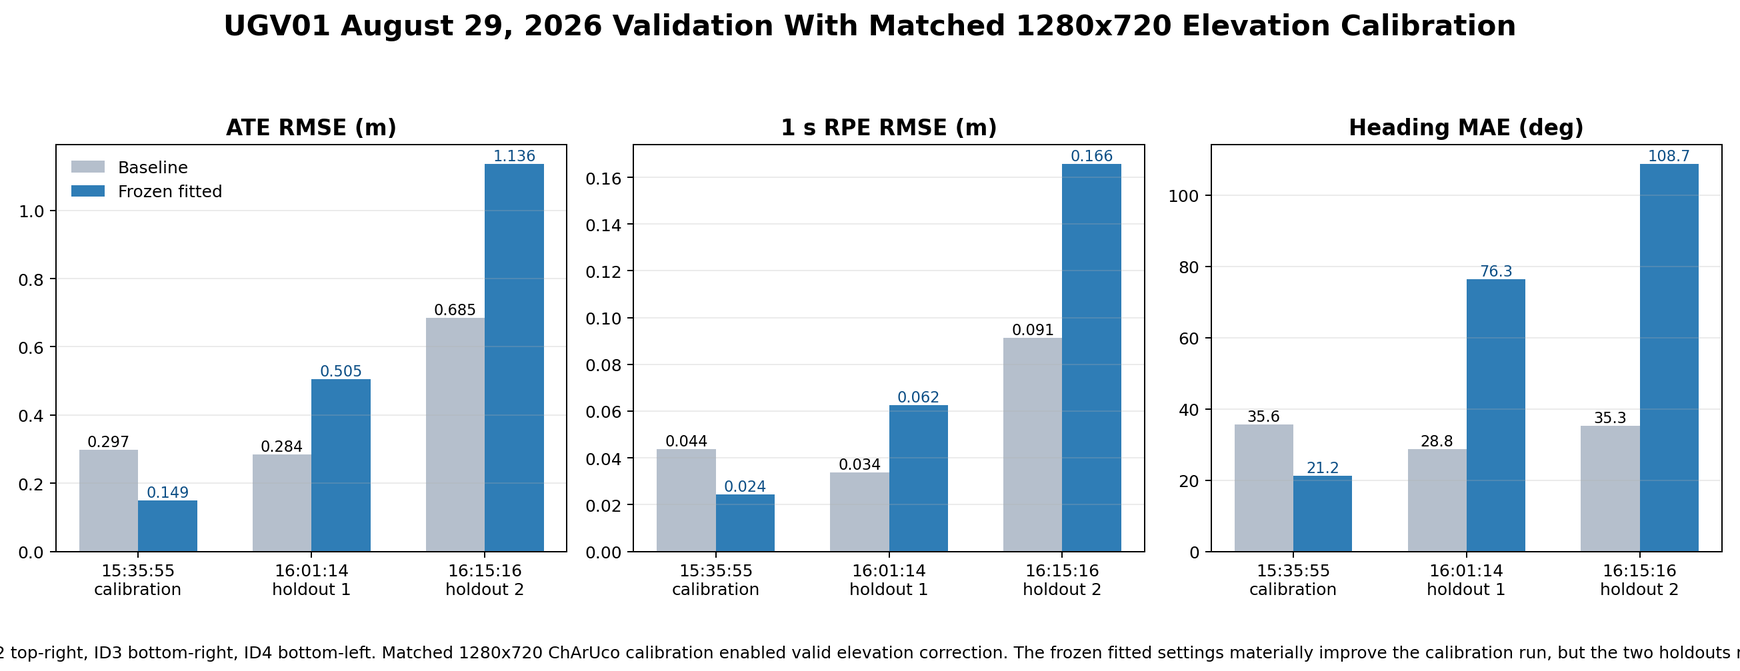
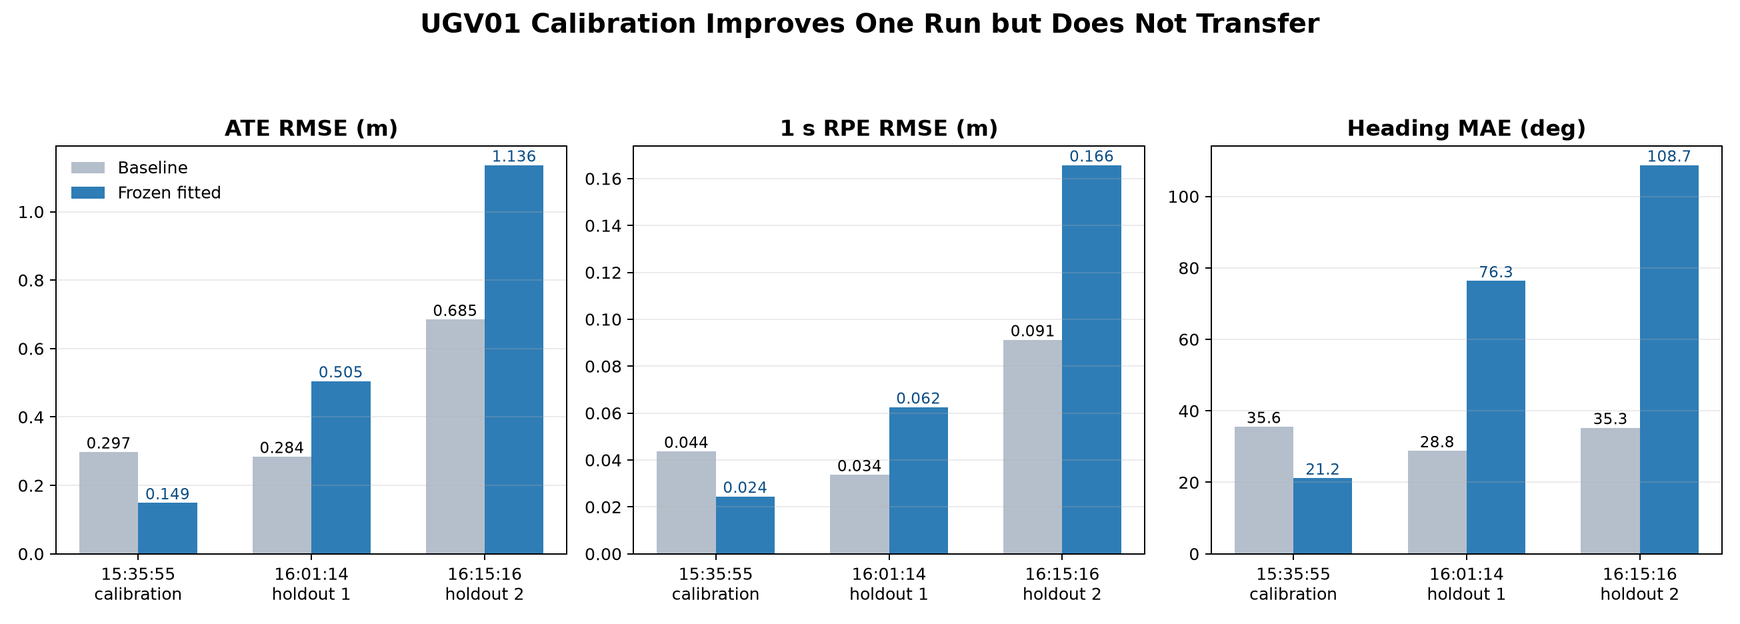
Polish IoTJ manuscript and figure package

diff --git a/manuscript/main.tex b/manuscript/main.tex
@@ -27,7 +27,7 @@
 \maketitle
 
 \begin{abstract}
-Digital-twin (DT) fidelity is often reported as a model-centric score even though an IoT service consumes specific physical quantities over specific horizons, with explicit error and freshness requirements. This paper formulates \emph{service-relative operational fidelity} as an engineering contract over required quantities, service horizon, tolerated discrepancy, operating context, and information age. We connect window validity to run-level contract satisfaction and distinguish deployment qualification from grid-based sensitivity analysis. On frozen i2Nav trajectories, local and synchronized-global service rankings reverse across prespecified tolerance surfaces, while ATE and finite-horizon RPE align most strongly with the services matching their semantics. The same contract construction remains usable on TerraSentia and, through one frozen normalized specialization, on thermal, battery electro-thermal, and biomass-to-SNG DT data. Controlled synchronization replay shows that 50-ms timestamp jitter increases 1-s RPE by 66.2\% while changing ATE by only 0.085\%. AprilTag-referenced UGV01 runs provide physical-asset evidence, including an adverse frozen-parameter cross-run transfer result. In a separate 20-run online UGV01 study, four resource policies produce distinct requested rates but only 1.45--1.52 delivered updates/s because the serial HTTP path is the bottleneck. Measured traces and trace-driven replay thus demonstrate online contract execution and a null delivered-resource effect, not communication savings. The contribution is a mapping from application requirements to measurable fidelity evidence, explicit service decisions, and their observable edge-system limits.
+Digital-twin (DT) fidelity is commonly reported as a model-centric score, although an IoT service consumes particular physical quantities over a particular horizon and under explicit error and freshness limits. We formulate \emph{service-relative operational fidelity} as a contract over required quantities, horizon, tolerated discrepancy, operating context, and information age. On frozen i2Nav trajectories, local and synchronized-global service rankings reverse over prespecified tolerance surfaces; ATE and finite-horizon RPE align most strongly with services that match their respective semantics. The same contract representation remains usable on TerraSentia and, through a frozen normalized specialization, on thermal, battery electro-thermal, and biomass-to-SNG DT data. Controlled replay further shows that 50-ms timestamp jitter increases 1-s RPE by 66.2\% while changing ATE by only 0.085\%. AprilTag-referenced UGV01 experiments demonstrate both the benefit and the cross-run limit of asset-specific calibration. Finally, a 20-run online study shows that four policies request different telemetry rates, yet a serial HTTP bottleneck collapses delivery to 1.45--1.52 updates/s. The experiments therefore demonstrate contract execution and expose its physical, observational, and transport boundaries; they do not claim communication savings. The contribution is an auditable mapping from application requirements to measurable fidelity evidence and explicit service decisions.
 \end{abstract}
 
 \begin{IEEEkeywords}
@@ -56,7 +56,7 @@ This paper is organized around four research questions:
     \item \textbf{RQ1:} Can the same physical--virtual pair receive different fidelity judgments when the service changes?
     \item \textbf{RQ2:} Does an explicit service contract add decision-relevant information beyond a single scalar score or ordinary multi-metric reporting?
     \item \textbf{RQ3:} Does the contract structure remain usable across another robot platform and across non-robot DT domains without outcome-tuned thresholds?
-    \item \textbf{RQ4:} Does physical--virtual timing perturbation affect service horizons differently in a way that matters to edge/IoT deployment?
+    \item \textbf{RQ4:} How do synchronization, reference observability, and transport capacity constrain service-relative fidelity decisions at the edge?
 \end{itemize}
 
 The paper makes four main contributions:
@@ -64,7 +64,7 @@ The paper makes four main contributions:
     \item \textbf{Operational fidelity contract and lifecycle.} We formalize a service contract over quantity set, horizon, tolerance, context, and information age, and define how it is specified, qualified, monitored, and handled when violated.
     \item \textbf{Decision-value evidence beyond metric reporting.} A frozen i2Nav study shows threshold-robust local/global ordering reversals, service-specific metric alignment, and sequence-level robustness. The contract therefore makes conventional metrics actionable rather than claiming that they are invalid.
     \item \textbf{Cross-platform and cross-domain structural portability.} The same robot contract transfers unchanged to TerraSentia, and one frozen normalized quantity--horizon--tolerance protocol remains non-degenerate on MAGNET, FreeTwinEV, and TU Wien SNG.
-    \item \textbf{Synchronization and physical-asset evidence.} Controlled Gaussian timestamp jitter and fixed update-delay replay show that local services can deteriorate before global ATE reveals a large change. AprilTag-referenced UGV01 runs reveal asset-specific calibration gains and cross-run limits; 20 additional live runs demonstrate online contract and policy execution under a measured transport bottleneck.
+    \item \textbf{Edge and physical-asset evidence.} Controlled timing replay shows horizon-specific degradation. AprilTag-referenced UGV01 runs reveal asset-specific calibration gains and cross-run limits, while 20 live runs demonstrate online contract and policy execution under a measured transport bottleneck.
 \end{enumerate}
 
 The claim boundary is deliberate. We do not claim a universal fidelity threshold, a universal DT certificate, localization state of the art, successful zero-shot transfer of one learned maintenance model across assets, or measured communication savings. The paper evaluates the \emph{operational contract representation and the service decisions it induces}; its live experiment identifies why requested resource modes did not translate into different delivered update rates.
@@ -478,61 +478,31 @@ The frozen V2 checkpoint is small (approximately 0.16~MiB serialized), and its s
 \section{UGV01 Asset-Specific Physical Validation}
 \label{sec:ugv01-physical-validation}
 
-To complement the broad cross-sequence fidelity analysis on i2Nav, we evaluated
-the instantiated twin on a real UGV01 tracked rover using overhead
-AprilTag-referenced video and matched onboard telemetry collected on August 29,
-2026. The physical reference used four fixed world tags and a rover-mounted tag
-in a corrected $2.0\,\mathrm{m}\times1.5\,\mathrm{m}$ layout with tag ordering
-$1=\mathrm{top\text{-}left}$, $2=\mathrm{top\text{-}right}$,
-$3=\mathrm{bottom\text{-}right}$, and $4=\mathrm{bottom\text{-}left}$. A
-matched $1280\times720$ ChArUco calibration was used to support
-elevation-corrected reference recovery, so the resulting analysis measures
-planar physical--virtual fidelity in a common local frame rather than
-post-aligned trajectory agreement.
+We evaluated the instantiated twin on a UGV01 tracked rover using matched
+telemetry and overhead AprilTag video collected on August 29, 2026. Four fixed
+world tags defined a corrected $2.0\,\mathrm{m}\times1.5\,\mathrm{m}$ reference
+rectangle, and a rover-mounted tag provided planar pose. A matched
+$1280\times720$ ChArUco calibration supported elevation correction. The
+evaluation therefore compares physical and virtual trajectories in one local
+frame without trajectory post-alignment.
 
-We first evaluated a baseline deterministic UGV01 twin and then fit an
-asset-specific parameterization on the run
-\texttt{WIN\_20260829\_15\_35\_55\_Pro}. The fitted configuration used an
-effective track width of $0.192\,\mathrm{m}$ together with the current
-low-speed gyro-fusion setting of $0.20$. This fitted instantiation was then
-held fixed and assessed against two additional runs from the same day to test
-cross-run transfer without retuning.
+We compared a corrected deterministic baseline with an asset-specific
+parameterization fitted on \texttt{WIN\_20260829\_15\_35\_55\_Pro}. The fitted
+configuration used a 0.192-m effective track width and a 0.20 low-speed gyro
+fusion weight. Both parameters were then frozen for two same-day holdout runs.
 
-On the calibration/reference run, asset-specific fitting materially improved
-physical--virtual fidelity over the full $164.7\,\mathrm{s}$ evaluated
-trajectory. The baseline configuration achieved $0.297\,\mathrm{m}$ ATE RMSE,
-$0.044\,\mathrm{m}$ RPE$_{1\mathrm{s}}$ RMSE, and $35.6^\circ$ heading MAE,
-whereas the fitted twin achieved $0.149\,\mathrm{m}$ ATE RMSE,
-$0.024\,\mathrm{m}$ RPE$_{1\mathrm{s}}$ RMSE, and $21.2^\circ$ heading MAE. The
-fitted run also achieved a median position error of $0.099\,\mathrm{m}$, a
-position-error p95 of $0.295\,\mathrm{m}$, and remained within
-$0.25\,\mathrm{m}$ for $87.3\%$ of evaluated samples. This confirms that
-binding the generic template to the specific UGV01 geometry and turning
-behavior can substantially improve local physical--virtual agreement on the
-target asset.
+On the 164.7-s calibration trajectory, fitting reduces ATE by 49.8\%, 1-s RPE
+by 45.5\%, and heading MAE by 40.4\% (Table~\ref{tab:ugv01_aug29_results}). The
+fitted position-error median and p95 are 0.099 and 0.295~m, respectively, and
+87.3\% of samples are within 0.25~m. Thus, deterministic asset information can
+materially improve the instantiated twin on its calibration condition.
 
-We then tested whether that fitted instantiation transferred to two additional
-August 29 runs. On \texttt{WIN\_20260829\_16\_01\_14\_Pro}, the corrected
-baseline twin achieved $0.284\,\mathrm{m}$ ATE RMSE,
-$0.034\,\mathrm{m}$ RPE$_{1\mathrm{s}}$ RMSE, and $28.8^\circ$ heading MAE,
-while the frozen fitted twin degraded to $0.505\,\mathrm{m}$ ATE RMSE,
-$0.062\,\mathrm{m}$ RPE$_{1\mathrm{s}}$ RMSE, and $76.3^\circ$ heading MAE. On
-\texttt{WIN\_20260829\_16\_15\_16\_Pro}, the corrected baseline twin achieved
-$0.685\,\mathrm{m}$ ATE RMSE, $0.091\,\mathrm{m}$ RPE$_{1\mathrm{s}}$ RMSE, and
-$35.3^\circ$ heading MAE, whereas the frozen fitted twin degraded further to
-$1.136\,\mathrm{m}$ ATE RMSE, $0.166\,\mathrm{m}$ RPE$_{1\mathrm{s}}$ RMSE, and
-$108.7^\circ$ heading MAE. Thus, the fitted instantiation improves the
-calibration run strongly but does not yet generalize robustly across repeated
-holdout trials, particularly for heading-sensitive behavior.
-
-This outcome is scientifically important rather than merely negative. It shows
-that asset-specific instantiation is real and beneficial, but also that twin
-fidelity remains condition- and run-sensitive even on the same physical robot.
-In the best case, the UGV01 twin attains strong positional and short-horizon
-agreement; however, heading fidelity remains weaker and transfers less
-reliably. This directly supports the paper's central argument that digital-twin
-fidelity is multidimensional and service-relative rather than a single scalar
-notion of accuracy.
+The same parameters do not transfer favorably to either holdout: ATE, 1-s RPE,
+and heading MAE are all worse than the corrected baseline
+(Fig.~\ref{fig:ugv01_aug29_summary}). The strongest degradation is in heading,
+which reaches $108.7^\circ$ MAE on the second holdout. This contrast is central
+to the service-relative argument: successful in-run calibration is not evidence
+that every service remains qualified under a repeated physical run.
 
 \begin{table}[t]
 \centering
@@ -563,25 +533,6 @@ Run / configuration & ATE RMSE (m) & RPE 1\,s (m) & Heading MAE (deg) \\
     \label{fig:ugv01_aug29_summary}
 \end{figure}
 
-\begin{figure}[t]
-    \centering
-    \includegraphics[width=\linewidth]{figures/ugv01_aug29_trajectory_fidelity.png}
-    \caption{Physical versus virtual trajectory comparison for the August 29
-    calibration/reference run after asset-specific fitting. The fitted twin
-    follows the local route shape more closely than the baseline
-    configuration.}
-    \label{fig:ugv01_aug29_traj}
-\end{figure}
-
-\begin{figure}[t]
-    \centering
-    \includegraphics[width=\linewidth]{figures/ugv01_aug29_fidelity_diagnostics.png}
-    \caption{Detailed fidelity diagnostics for the August 29 calibration run.
-    Position and short-horizon fidelity improve clearly after asset-specific
-    fitting, while heading disagreement remains the weaker component.}
-    \label{fig:ugv01_aug29_diag}
-\end{figure}
-
 \paragraph{Reference and synchronization limitations.}
 The present UGV01 validation uses an elevation-corrected AprilTag plus ChArUco
 reference and motion-correlation alignment between video and telemetry. These
@@ -595,14 +546,7 @@ quality and frozen cross-run robustness.
 
 Applying the predeclared global contract (position error no greater than 1~m and heading error no greater than $5^{\circ}$) makes that limitation operational. Satisfaction is 0.207 on the fitted calibration run and falls to 0.027 and 0.030 on the two frozen fitted holdouts. The engine therefore withdraws the heading-sensitive service claim on most observable samples. This is evidence that the contract exposes an unqualified model; it is not evidence that an external deployment controller actually prevented use of that model.
 
-We also swept effective track width from 0.180 to 0.210~m in 0.005-m steps on all three recordings without selecting a separate width for either holdout. No tested width attains $S_s\ge0.8$ on any run, and the common feasible set is empty (Fig.~\ref{fig:widthsensitivity}). Track-width drift alone therefore does not explain or repair the transfer failure. We do not report a first-10-s recalibration result because track width is not identifiable from an arbitrary initial window without sufficient differential-turn excitation.
-
-\begin{figure}[t]
-\centering
-\safegraphic{figures/track_width_contract_sensitivity.png}
-\caption{Predeclared effective-track-width sensitivity on the August 29 UGV01 runs. The sweep does not select parameters independently on the holdouts. No tested width produces global-contract satisfaction of 0.8, so no allowable parameter-drift interval is claimed.}
-\label{fig:widthsensitivity}
-\end{figure}
+We also swept effective track width from 0.180 to 0.210~m in 0.005-m steps on all three recordings without selecting a separate width for either holdout. No tested width attains $S_s\ge0.8$ on any run, and the common feasible set is empty. Track-width drift alone therefore does not explain or repair the transfer failure. We do not report a first-10-s recalibration result because track width is not identifiable from an arbitrary initial window without sufficient differential-turn excitation.
 
 \section{Live UGV01 Contract and Resource-Policy Study}
 \label{sec:live-ugv01}
@@ -634,37 +578,28 @@ Contract-aware & 8.61 & 1.52 & 948.7 & 0.148 & 0.180 \\
 \subsection{Trace-Driven Counterfactual Transport Replay}
 We replayed five measured contract-aware UGV01 traces through each of the four frozen policies. Within a trial all policies see the same recorded source arrivals, response times, payload sizes, and contract-state inputs. The replay allows one outstanding HTTP request and returns the newest recorded source sample available when a request begins. It does not synthesize fresh measurements or recompute counterfactual contract validity. The physical trace, not each replayed timestamp, is the comparison unit.
 
-Under measured response times all four policies produce the same replayed 1.536 requests/s, 951.8 response B/s, 1.304-s p95 delivery age, and 5.3\% repeated-source fraction (Fig.~\ref{fig:livereplay}). This is a \emph{null delivered-resource effect}: different requested rates cannot overcome a shared serial-service bottleneck.
+Under measured response times all four policies produce the same replayed 1.536 requests/s, 951.8 response B/s, 1.304-s p95 delivery age, and 5.3\% repeated-source fraction (Fig.~\ref{fig:liveedge}). This is a \emph{null delivered-resource effect}: different requested rates cannot overcome a shared serial-service bottleneck.
 
-\begin{figure}[t]
+A separate capacity calculation caps the observed offered demand at 1.5, 2, 5, and 10 updates/s while using the measured mean 619.4-B response. At 1.5 updates/s all policies saturate. At a hypothetical 10-updates/s capacity, response-payload demand would be 80.0\%, 72.4\%, and 13.9\% lower than static-high for static-low, AoI-only, and contract-aware, respectively. These are provisioned-capacity bounds, \emph{not} measured bandwidth or energy savings; they do not estimate contract satisfaction at those rates.
+
+\begin{figure*}[t]
 \centering
+\begin{minipage}{0.49\textwidth}\centering
 \safegraphic{figures/trace_replay_policy_comparison.png}
-\caption{Trace-driven replay of all four frozen policies using measured UGV01 source arrivals, response times, and payload sizes. Delivered transport metrics coincide under the serial HTTP bottleneck. These are simulated counterfactual transport quantities, not new physical trials or evidence of service preservation.}
-\label{fig:livereplay}
-\end{figure}
-
-A separate capacity calculation caps the observed offered demand at 1.5, 2, 5, and 10 updates/s while using the measured mean 619.4-B response (Fig.~\ref{fig:capacity}). At 1.5 updates/s all policies saturate. At a hypothetical 10-updates/s capacity, response-payload demand would be 80.0\%, 72.4\%, and 13.9\% lower than static-high for static-low, AoI-only, and contract-aware, respectively. These are provisioned-capacity bounds, \emph{not} measured bandwidth or energy savings; they do not estimate contract satisfaction at those rates.
-
-\begin{figure}[t]
-\centering
+\end{minipage}\hfill
+\begin{minipage}{0.49\textwidth}\centering
 \safegraphic{figures/transport_capacity_sensitivity.png}
-\caption{Capacity sensitivity using each policy's observed offered demand and the measured mean response size. Separation appears only after transport capacity rises above the common measured bottleneck. The higher-capacity points are hypothetical bounds, not observed rover throughput.}
-\label{fig:capacity}
-\end{figure}
+\end{minipage}
+\caption{Edge-policy evidence. Left: trace-driven replay under measured UGV01 source arrivals and response times; the serial HTTP bottleneck collapses all four policies to the same delivered rate. Right: provisioned-capacity sensitivity based on observed offered demand and mean response size. The higher-capacity points are hypothetical bounds, not measured bandwidth, energy savings, or service preservation.}
+\label{fig:liveedge}
+\end{figure*}
 
 The live experiment therefore establishes that the end-to-end stack executes on the physical rover, records observability and policy decisions, and exposes an important edge-systems constraint. It does not establish a causal resource-saving or service-preservation advantage for contract-aware scheduling.
 
 \subsection{Retrospective Position-Only Contract}
 Because GPS position remained available more often than low-speed course, we additionally define a retrospective position-only service with $Q_s=\{x,y\}$. This analysis is separate from the original online position-plus-heading decisions. It applies the same GPS quality, synchronization-history, tolerance, and AoI gates, uses Eq.~\eqref{eq:threestate}, and reports satisfaction only over observable windows.
 
-Across the five paired source traces used for replay, global position observability becomes 1.000. Global satisfaction is only 0.215, however; local position-only satisfaction is 0.010, 0.128, and 0.440 at 1, 5, and 10~s, respectively. Thus removing unavailable heading converts abstentions into valid position judgments but does not make the strict services pass. All four policies still receive identical replay outcomes and approximately 1.536 delivered requests/s because the recorded source and serial HTTP path remain the limiting factors.
-
-\begin{figure}[t]
-\centering
-\safegraphic{figures/position_only_replay.png}
-\caption{Offline position-only contract replay on five measured source traces. Position observability is restored, but the measured serial transport still collapses all four policies to identical delivery and service outcomes. This retrospective service analysis does not rewrite the original online decisions.}
-\label{fig:positiononly}
-\end{figure}
+Across the five paired source traces used for replay, global position observability becomes 1.000. Global satisfaction is only 0.215, however; local position-only satisfaction is 0.010, 0.128, and 0.440 at 1, 5, and 10~s, respectively. Removing unavailable heading therefore converts abstentions into valid position judgments without making the strict services pass. All four policies still receive identical replay outcomes and approximately 1.536 delivered requests/s because the recorded source and serial HTTP path remain the limiting factors.
 
 \section{Discussion}
 \subsection{The Contract Makes Metrics Actionable}

diff --git a/scripts/plot_aug29_ugv01_validation_summary.py b/scripts/plot_aug29_ugv01_validation_summary.py
@@ -75,10 +75,10 @@ def main() -> None:
             }
         )
 
-    fig, axes = plt.subplots(1, 3, figsize=(14.5, 5.6))
+    fig, axes = plt.subplots(1, 3, figsize=(14.5, 5.2))
     fig.suptitle(
-        "UGV01 August 29, 2026 Validation With Matched 1280x720 Elevation Calibration",
-        fontsize=17,
+        "UGV01 Calibration Improves One Run but Does Not Transfer",
+        fontsize=16,
         fontweight="bold",
     )
 
@@ -114,16 +114,7 @@ def main() -> None:
 
     axes[0].legend(frameon=False, loc="upper left")
 
-    fig.text(
-        0.5,
-        0.02,
-        "Corrected world layout: ID1 top-left, ID2 top-right, ID3 bottom-right, ID4 bottom-left. "
-        "Matched 1280x720 ChArUco calibration enabled valid elevation correction. "
-        "The frozen fitted settings materially improve the calibration run, but the two holdouts remain better under baseline geometry.",
-        ha="center",
-        fontsize=10,
-    )
-    fig.tight_layout(rect=(0, 0.08, 1, 0.92))
+    fig.tight_layout(rect=(0, 0, 1, 0.91))
     OUT.parent.mkdir(parents=True, exist_ok=True)
     fig.savefig(OUT, dpi=180)
     plt.close(fig)

diff --git a/DigitalTwin/paper/paths.py b/DigitalTwin/paper/paths.py
@@ -51,10 +51,6 @@ REQUIRED_PAPER_FIGURES = (
     "timing_jitter_stage2.png",
     "timing_delay_stage2.png",
     "ugv01_aug29_validation_summary.png",
-    "ugv01_aug29_trajectory_fidelity.png",
-    "ugv01_aug29_fidelity_diagnostics.png",
     "trace_replay_policy_comparison.png",
     "transport_capacity_sensitivity.png",
-    "position_only_replay.png",
-    "track_width_contract_sensitivity.png",
 )

diff --git a/docs/figure_manifest.md b/docs/figure_manifest.md
@@ -1,53 +1,28 @@
-# Manuscript rewrite figure manifest
+# Manuscript Figure Manifest
 
-Generated by `collect_manuscript_rewrite_figures.py`.
+The paper package deliberately contains only figures cited by
+`manuscript/main.tex`. Detailed diagnostics remain in their canonical
+`results/` directories and are not duplicated into the submission package.
 
-## Recommended main-paper starting set
+| Figure asset | Evidence role | Canonical source |
+|---|---|---|
+| `e1_parking_full_grid_inversion.png` | Local/global service-ranking inversion | `results/e1_e2_service_contract_publication/E1_i2nav/` |
+| `e1_metric_service_rank_alignment.png` | ATE/RPE alignment with matching services | `results/e1_e2_service_contract_publication/E1_i2nav/` |
+| `condition_dependent_fidelity.png` | Condition-dependent fidelity dimensions | Frozen post-LOSO condition analysis |
+| `persistent_yaw_mechanism.png` | Persistent yaw and accumulated divergence | Frozen post-LOSO mechanism analysis |
+| `E1_E2_cross_platform_position_contracts.png` | i2Nav/TerraSentia contract portability | `results/e1_e2_service_contract_publication/` |
+| `cross_domain_horizon_profile.png` | Cross-domain horizon behavior | `results/cross_domain_contract_generalization/figures/` |
+| `cross_domain_contract_heatmap.png` | Cross-domain contract map | `results/cross_domain_contract_generalization/figures/` |
+| `timing_jitter_stage2.png` | Timestamp-jitter sensitivity | Synchronization-sensitivity analysis |
+| `timing_delay_stage2.png` | Fixed-delay sensitivity | Synchronization-sensitivity analysis |
+| `ugv01_aug29_validation_summary.png` | UGV01 calibration and frozen holdouts | UGV01 physical-validation analysis |
+| `trace_replay_policy_comparison.png` | Measured-trace policy replay | `results/ugv01_live_contract_trace_replay/` |
+| `transport_capacity_sensitivity.png` | Counterfactual capacity bounds | `results/ugv01_live_contract_trace_replay/` |
 
-1. E1 full-grid parking00/parking02 inversion.
-2. E1 metric-to-service rank-alignment comparison.
-3. E1/E2 i2Nav-to-TerraSentia contract portability.
-4. E3 MAGNET/FreeTwinEV/SNG horizon profile.
-5. E3 cross-domain contract heatmap.
-6. Condition-dependent fidelity and persistent-yaw mechanism if space permits.
+## Claim Boundaries
 
-## Curated figures
-
-| Destination | Experiment | Role | Status | Source |
-|---|---|---|---|---|
-| `figures\e1_parking_full_grid_inversion.png` | E1 i2Nav | CORE | copied | `results\e1_e2_service_contract_publication\E1_i2nav\e1_parking_full_grid_inversion.png` |
-| `figures\e1_metric_service_rank_alignment.png` | E1 i2Nav | CORE | copied | `results\e1_e2_service_contract_publication\E1_i2nav\e1_metric_service_rank_alignment.png` |
-| `figures\E1_E2_cross_platform_position_contracts.png` | E1/E2 | CORE | copied | `results\e1_e2_service_contract_publication\E1_E2_cross_platform_position_contracts.png` |
-| `figures\cross_domain_horizon_profile.png` | E3 cross-domain | CORE | copied | `results\cross_domain_contract_generalization\figures\cross_domain_horizon_profile.png` |
-| `figures\cross_domain_contract_heatmap.png` | E3 cross-domain | CORE | copied | `results\cross_domain_contract_generalization\figures\cross_domain_contract_heatmap.png` |
-| `condition_dependent_fidelity.png` | i2Nav condition analysis | SUPPORTING | not_found | `` |
-| `persistent_yaw_mechanism.png` | i2Nav mechanism | SUPPORTING | not_found | `` |
-| `figures\coverage_vs_sharpness.png` | Conditioned envelope analysis | SUPPORTING | copied | `results\benign_envelope_validation\coverage_vs_sharpness.png` |
-| `figures\parking02_tfp_global_tail.png` | i2Nav parking02 | SUPPORTING | copied | `results\publication_hardening\figures\parking02_tfp_global_tail.png` |
-| `magnet_horizon_component_counterexample.png` | MAGNET | SUPPORTING | not_found | `` |
-| `ugv01_asset_instantiation.png` | UGV01 | SUPPORTING | not_found | `` |
-| `ugv01_condition_fidelity_profile.png` | UGV01 | SUPPORTING | not_found | `` |
-| `figures\ugv01_local_vs_global_fidelity.png` | UGV01 | SUPPORTING | copied | `results\ugv01_physical_instantiation\fidelity_protocol\ugv01_local_vs_global_fidelity.png` |
-| `figures\representative_divergence_trace.png` | Physical-virtual trace | SUPPORTING | copied | `magnet_tfp\results\figures\representative_divergence_trace.png` |
-| `figures\trace_replay_policy_comparison.png` | UGV01 live contract | CORE | generated | `results\ugv01_live_contract_trace_replay\trace_replay_policy_comparison.png` |
-| `figures\transport_capacity_sensitivity.png` | UGV01 transport capacity | CORE | generated | `results\ugv01_live_contract_trace_replay\transport_capacity_sensitivity.png` |
-| `figures\coverage_vs_sharpness.png` | Conditioned envelope validation | CORE | copied | `results\benign_envelope_validation\coverage_vs_sharpness.png` |
-| `figures\official_benchmark_results.png` | Official i2Nav benchmark | CORE | copied | `results\i2nav_official_benchmark\official_benchmark_results.png` |
-| `figures\ugv01_instantiation_comparison.png` | UGV01 asset instantiation | CORE | copied | `results\ugv01_physical_instantiation\ugv01_instantiation_comparison.png` |
-| `figures\ugv01_fidelity_profile_comparison.png` | UGV01 condition fidelity | CORE | copied | `results\ugv01_physical_instantiation\fidelity_protocol\ugv01_fidelity_profile_comparison.png` |
-| `figures\timing_jitter_stage2.png` | Timing sensitivity | CORE | copied | `figures\timing_jitter_stage2.png` |
-| `figures\timing_delay_stage2.png` | Timing sensitivity | CORE | copied | `figures\timing_delay_stage2.png` |
-| `figures\ugv01_aug29_validation_summary.png` | UGV01 August 29 validation | CORE | copied | `figures\ugv01_aug29_validation_summary.png` |
-| `figures\ugv01_aug29_trajectory_fidelity.png` | UGV01 August 29 trajectory | CORE | copied | `figures\ugv01_aug29_trajectory_fidelity.png` |
-| `figures\ugv01_aug29_fidelity_diagnostics.png` | UGV01 August 29 diagnostics | CORE | copied | `figures\ugv01_aug29_fidelity_diagnostics.png` |
-| `figures\position_only_replay.png` | UGV01 position-only replay | CORE | generated | `results\ugv01_live_position_contract\position_only_replay.png` |
-| `figures\track_width_contract_sensitivity.png` | UGV01 parameter sensitivity | CORE | generated | `results\ugv01_contract_parameter_study\track_width_contract_sensitivity.png` |
-
-## Claim-boundary reminders
-
-- E1 supports service-relative fidelity; it does not claim ATE or RPE are invalid.
-- E2 supports unchanged contract-structure portability to TerraSentia; it is not a frozen-V2 superiority claim.
-- E3 supports cross-domain portability of the contract representation; normalized tolerances are not universal safety limits.
-- Old V1/V2 internal figures should not be mixed with the later official Fixed-Physics-vs-V2 headline comparison.
-
-Supplementary/context figures collected: **63**.
+- E1 establishes service-relative decisions; it does not invalidate ATE or RPE.
+- E2 establishes contract portability, not zero-shot model superiority.
+- E3 establishes structural cross-domain use; normalized tolerances are not universal safety limits.
+- UGV01 fitting is calibration evidence with adverse frozen holdouts.
+- Live replay demonstrates policy execution and a measured transport bottleneck, not communication or energy savings.

diff --git a/manuscript/README.md b/manuscript/README.md
@@ -4,9 +4,8 @@ Main source:
 
 - `main.tex`
 
-The `figures/` directory contains the paper-facing figures, including all sixteen
-figures referenced by the current manuscript. The
-manuscript. The `supplementary/live_contract/` directory contains the
+The `figures/` directory contains only the twelve image assets referenced by
+the current manuscript. The `supplementary/live_contract/` directory contains the
 machine-readable UGV01 dataset audit and trace-driven communication replay
 used for the live experiment section.
 
@@ -22,6 +21,10 @@ The live experiment has two evidence layers:
 
 1. measured hardware traces from 20 UGV01 runs;
 2. trace-driven transport replay and a labeled capacity-sensitivity study.
+
+The main narrative uses one physical-validation summary and one paired
+edge-policy figure. Detailed trajectory, parameter-sensitivity, and
+position-only plots remain in `results/` as auditable supporting artifacts.
 
 The manuscript does not report the replay as measured communication savings
 or as evidence of fresh 5/10-Hz sensor fidelity.
